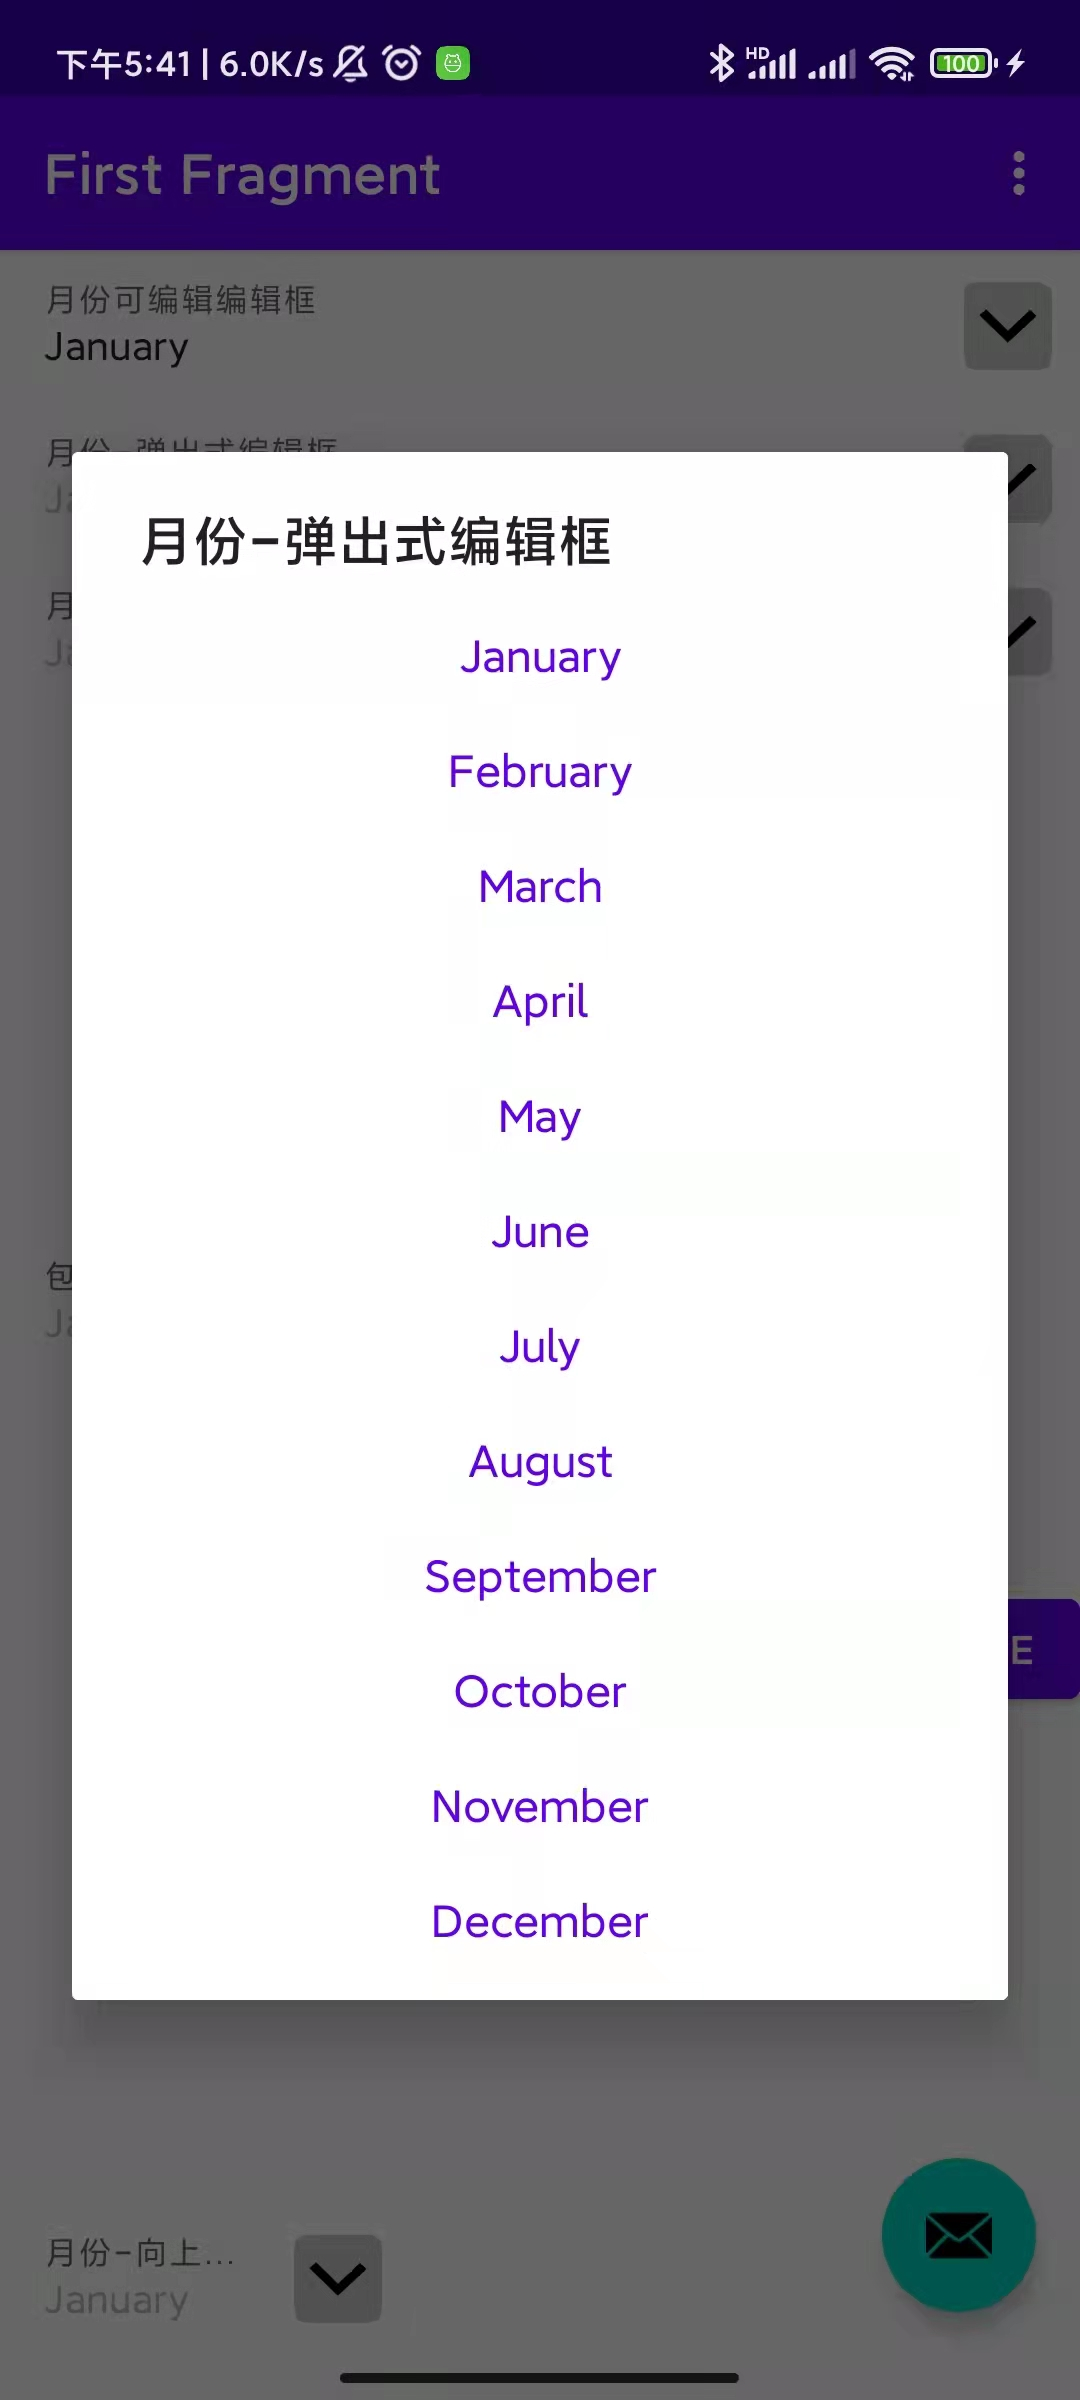
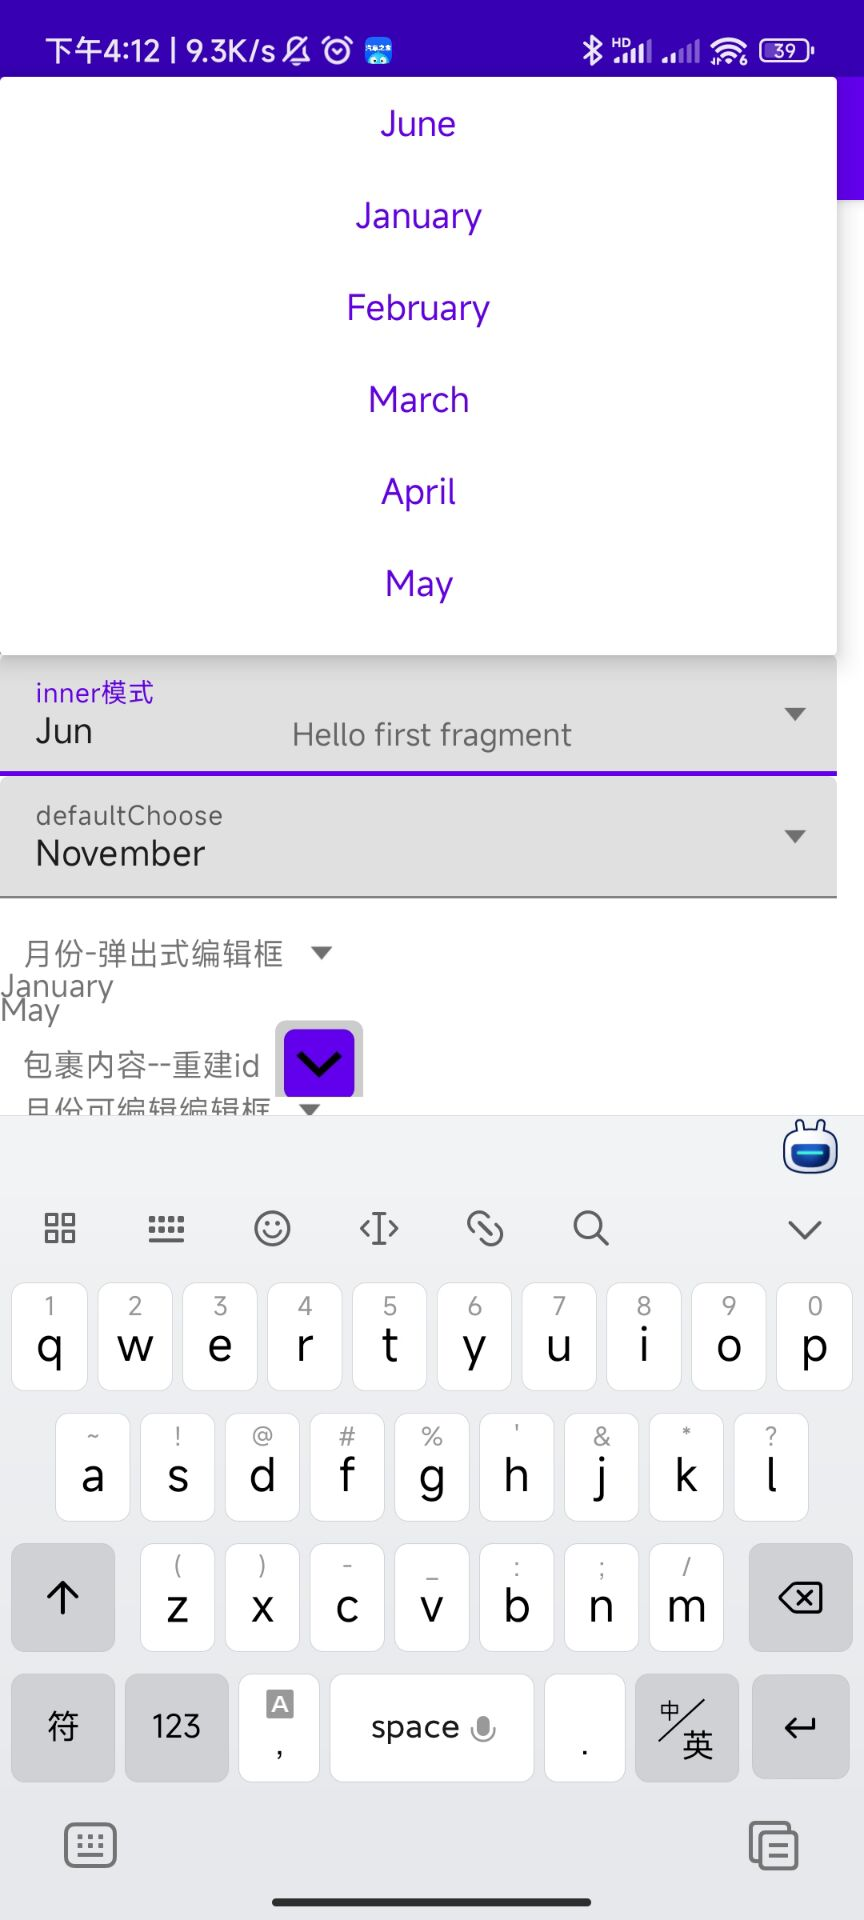
过滤功能完善

diff --git a/app/src/main/java/com/example/editablespinner/FirstFragment.kt b/app/src/main/java/com/example/editablespinner/FirstFragment.kt
@@ -1,23 +1,26 @@
 package com.example.editablespinner
 
 import android.os.Bundle
-import androidx.fragment.app.Fragment
+import android.util.Log
+import android.view.KeyEvent
 import android.view.LayoutInflater
 import android.view.View
 import android.view.ViewGroup
 import android.widget.AdapterView
+import android.widget.TextView
 import android.widget.Toast
+import androidx.fragment.app.Fragment
 import androidx.navigation.fragment.findNavController
 import com.example.editablespinner.databinding.FragmentFirstBinding
+import lozn.spinner.EditSpinner
 import lozn.spinner.impl.AutoCompleteSpinnerAdapter
-import lozn.spinner.impl.DefaultSpinnerRecycleAdapter
-import java.util.ArrayList
 
 /**
  * A simple [Fragment] subclass as the default destination in the navigation.
  */
 class FirstFragment : Fragment() {
 
+    private val TAG: String?="EditSpinner"
     private var _binding: FragmentFirstBinding? = null
 
     // This property is only valid between onCreateView and
@@ -78,6 +81,36 @@ class FirstFragment : Fragment() {
             }
             override fun onNothingSelected(parent: AdapterView<*>?) {}
         })
+
+
+/*
+        binding.editspinner.setOnValueChangeListener(object :
+            EditSpinner.SimpleOnValueChangeListener() {
+            override fun onLossFocusAndTextChange() {
+
+            }
+        })
+
+ */
+        binding.editspinner.setOnValueChangeListener(object :
+            EditSpinner.OnValueChangeListener {
+            override  fun onLossFocus() {
+
+                Log.w(TAG,"onLossFocus");
+            }
+            override fun onLossFocusAndTextChange() {}
+            override  fun onTextAutoCompleteChoose(position: Int, id: Long) {}
+            override   fun onTextChanged(s: CharSequence?) {}
+            override fun onGainFocus(focusText: String?) {}
+            override   fun onItemSelectPostionChanged(position: Int, selectedItem: String?): Boolean {
+                return false
+            }
+
+            override   fun onEditorAction(v: TextView?, actionId: Int, event: KeyEvent?): Boolean {
+                return false
+            }
+        })
+
     }
 
     override fun onDestroyView() {

diff --git a/EditableSpinner/src/main/java/lozn/spinner/EditSpinner.java b/EditableSpinner/src/main/java/lozn/spinner/EditSpinner.java
@@ -1,3 +1,4 @@
+package lozn.spinner;
 
 import static android.widget.AdapterView.INVALID_POSITION;
 import static android.widget.Spinner.MODE_DIALOG;
@@ -32,6 +33,9 @@ import android.widget.TextView;
 import androidx.annotation.IntDef;
 import androidx.annotation.Nullable;
 import androidx.annotation.RequiresApi;
+import androidx.appcompat.content.res.AppCompatResources;
+
+import com.google.android.material.textfield.TextInputLayout;
 
 import java.lang.annotation.Retention;
 import java.lang.annotation.RetentionPolicy;
@@ -40,6 +44,8 @@ import java.util.List;
 
 import lozn.spinner.EditInnerSpinner;
 import lozn.spinner.R;
+import lozn.spinner.base.ListViewRecycleAdapter;
+import lozn.spinner.impl.DefaultSpinnerRecycleAdapter;
 
 /**
  * Author:Lozn
@@ -131,7 +137,7 @@ public class EditSpinner extends LinearLayout {
         String hint_str = "";
         int gap = 0;
         imageView = new ImageView(context);
-        imageView.setId(pub.devrel.easypermissions.R.id.image);
+        imageView.setId(R.id.image);
         CharSequence[] mEntries = null;
 
         if (attrs != null) {
@@ -220,9 +226,10 @@ public class EditSpinner extends LinearLayout {
             _titleWrap.addView(imageView);
         }
         onItemSelectedListenerInner = new AdapterView.OnItemSelectedListener() {
+            @RequiresApi(api = Build.VERSION_CODES.LOLLIPOP)
             @Override
             public void onItemSelected(AdapterView<?> parent, View view, int position, long id) {
-                Log.w("focus", editText.hasFocus() + ","+","+editText.isFocused()+","+editText.isAccessibilityFocused());
+                Log.w("focus", editText.hasFocus() + ","+","+editText.isFocused());
                 if (position < 0) {//|| appCoSpinner.getMyselection() < 0) { //无法做到默认为空。没办法
                     if (!TextUtils.isEmpty(editText.getText().toString())) {
                         setTextDisableNotify("");
@@ -264,7 +271,7 @@ public class EditSpinner extends LinearLayout {
 //        editText.setCompoundDrawablesRelativeWithIntrinsicBounds(null, null, null, null);
         if (mEntries != null && mEntries.length > 0) {
             if (!isInEditMode()) {
-                MySpinnerAdapter<CharSequence, SimpleSpinnerItemBinding> adapter = new MySpinnerAdapter<>();
+                DefaultSpinnerRecycleAdapter<CharSequence> adapter = new DefaultSpinnerRecycleAdapter<>();
                 ArrayList<CharSequence> data = new ArrayList<>();
                 for (CharSequence mEntry : mEntries) {
                     data.add(mEntry);
@@ -382,10 +389,10 @@ public class EditSpinner extends LinearLayout {
             AutoCompleteTextView autoCompleteTextView = (AutoCompleteTextView) editText;
             autoCompleteTextView.setOnItemClickListener((parent, view, position, id) -> {
                 SpinnerAdapter adapter = appCoSpinner.getAdapter();
-                if (adapter instanceof DefaultListViewAdapter) { //创建一个新的adapter,是为了解决重复触发问题，如果不创建一个新的，autocompletetextview继续用之前的，输入2个之后会自动触发select 而且触发两次，实际上不应该进行触发只需要进行提示。
+                if (adapter instanceof DefaultSpinnerRecycleAdapter) { //创建一个新的adapter,是为了解决重复触发问题，如果不创建一个新的，autocompletetextview继续用之前的，输入2个之后会自动触发select 而且触发两次，实际上不应该进行触发只需要进行提示。
 
-                    DefaultListViewAdapter editTextAdapter = (DefaultListViewAdapter) ((AutoCompleteTextView) editText).getAdapter();
-                    DefaultListViewAdapter<?, ?> defaultListViewAdapter = (DefaultListViewAdapter<?, ?>) adapter;
+                    DefaultSpinnerRecycleAdapter editTextAdapter = (DefaultSpinnerRecycleAdapter) ((AutoCompleteTextView) editText).getAdapter();
+                    DefaultSpinnerRecycleAdapter defaultListViewAdapter = (DefaultSpinnerRecycleAdapter) adapter;
                     defaultListViewAdapter.setData(editTextAdapter.getData());
                     defaultListViewAdapter.notifyDataSetChanged();
                 } else {
@@ -650,7 +657,7 @@ public class EditSpinner extends LinearLayout {
         if (isInEditMode()) {
             return;
         }
-        MySpinnerAdapter<Object, SimpleSpinnerItemBinding> adapter = new MySpinnerAdapter<>();
+        DefaultSpinnerRecycleAdapter adapter = new DefaultSpinnerRecycleAdapter<>();
         adapter.setData(data);
         setAdapter(adapter);
     }
@@ -832,9 +839,9 @@ public class EditSpinner extends LinearLayout {
             AutoCompleteTextView autoCompleteTextView = (AutoCompleteTextView) editText;
             if (adapter instanceof ListAdapter && adapter instanceof Filterable) {
                 if (!isInEditMode()) {
-                    MySpinnerAdapter mySpinnerAdapter = (MySpinnerAdapter) adapter;
+                    DefaultSpinnerRecycleAdapter mySpinnerAdapter = (DefaultSpinnerRecycleAdapter) adapter;
 
-                    autoCompleteTextView.setAdapter(new MySpinnerAdapter<>().setData(mySpinnerAdapter.getData()));  // 设置适配器
+                    autoCompleteTextView.setAdapter(new DefaultSpinnerRecycleAdapter<>().setData(mySpinnerAdapter.getData()));  // 设置适配器
 
                 }
 

diff --git a/EditableSpinner/src/main/java/lozn/spinner/impl/DefaultSpinnerRecycleAdapter.java b/EditableSpinner/src/main/java/lozn/spinner/impl/DefaultSpinnerRecycleAdapter.java
@@ -6,12 +6,19 @@ import android.view.ViewGroup;
 import android.widget.Filter;
 import android.widget.TextView;
 
+import java.util.ArrayList;
+import java.util.LinkedHashSet;
+import java.util.List;
+
 import lozn.spinner.BaseViewHolderI;
 import lozn.spinner.base.ListViewRecycleAdapter;
 import lozn.spinner.R;
 
 
 public class DefaultSpinnerRecycleAdapter<T>  extends ListViewRecycleAdapter<T, DefaultSpinnerRecycleAdapter.GenericDataBindViewHolder> {
+    private List<T> datafilter;
+    private MyFilter myFilter;
+
     @Override
     public GenericDataBindViewHolder onCreateViewHolder(ViewGroup viewGroup, int viewType) {
         LayoutInflater from = LayoutInflater.from(viewGroup.getContext());
@@ -28,9 +35,82 @@ public class DefaultSpinnerRecycleAdapter<T>  extends ListViewRecycleAdapter<T, 
         return super.getItem(position);
     }
 
+
+    public List<T> getSuperData() {
+        return super.getData();
+    }
+
+
+    public class MyFilter extends Filter {
+   /*     public void setSuperDataLiSt(List superDataLiSt) {
+            this.superDataLiSt = superDataLiSt;
+        }
+
+        private List<t> superDataLiSt;
+
+        public MyFilter(List<t> superData) {
+            this.superDataLiSt = superData;
+        }*/
+
+        public MyFilter() {
+        }
+
+        @Override
+        protected FilterResults performFiltering(CharSequence constraint) {
+            FilterResults results = new FilterResults();
+            List<T> newData = new ArrayList<>();
+            List<T> containData = new ArrayList<>();
+            List<T> superData = getSuperData();
+            for (T currentItem : superData) {
+                if (currentItem.toString().startsWith(constraint.toString())) {
+                    newData.add(currentItem);
+                } else {
+                    if (currentItem.toString().contains(constraint)) {
+                        containData.add(currentItem);
+                    }
+                }
+             /*   if (currentItem.toString().contains(constraint)) {
+                    newData.add(currentItem);
+                }*/
+            }
+
+            LinkedHashSet hashSet = new LinkedHashSet();
+            if(!containData.isEmpty()){
+                newData.addAll(containData);
+            }
+            hashSet.addAll(newData);
+            hashSet.addAll(superData);
+            newData.clear();
+            newData.addAll(hashSet);
+            results.values = newData;
+
+            results.count = newData.size();
+
+            return results;
+        }
+
+        @Override
+        protected void publishResults(CharSequence constraint, FilterResults results) {
+            datafilter = (List<T>) results.values;
+            notifyDataSetChanged();
+        }
+    }
+
+
     @Override
     public Filter getFilter() {
-        return null;
+        if (myFilter == null) {
+            myFilter = new MyFilter();
+        }
+//        myFilter.setSuperDataLiSt(getSuperData());
+        return myFilter;
+    }
+    @Override
+    public List<T> getData() {
+        if (datafilter != null && !datafilter.isEmpty()) {
+            return datafilter;
+        }
+        return super.getData();
     }
 
     public static class GenericDataBindViewHolder implements BaseViewHolderI {

diff --git a/EditableSpinner/src/main/java/lozn/spinner/base/ListViewRecycleAdapter.java b/EditableSpinner/src/main/java/lozn/spinner/base/ListViewRecycleAdapter.java
@@ -61,6 +61,8 @@ public abstract class ListViewRecycleAdapter<T, VH extends BaseViewHolderI> exte
 
     }
 
+
+
     public void setOnItemLongClickListener(OnItemLongClickListener onItemLongClickListener) {
         this.onItemLongClickListener = onItemLongClickListener;
     }

diff --git a/ReadMe.md b/ReadMe.md
@@ -1,4 +1,4 @@
-#添加依赖
+#AddDependent
 
 ```groovy
 	allprojects {
@@ -51,7 +51,7 @@ Step 2. Add the dependency
 ```
 
 #功能
-```spinner_mode``` 支持dialog dropdown 默认dropdown 当这个下拉列表在底部的时候会网上展开
+```spinner_mode``` 支持dialog dropdown 默认dropdown 当这个下拉列表在底部的时候会向上上展开
 ```spinner_item``` 设置默认item条目 ，这样对于纯字符的可以不需要用代码设置
 ```spinner_editable``` 控制是否可编辑
 ```spinner_rebuild_Id``` 如果viewpager fragment大量使用，则会导致hint重复问题，这是fragment的回收机制问题,给每一个分配不同id就可以解决这个问题
@@ -63,9 +63,9 @@ arrays.xml
 <item>3333</item>
 <item>5555</item>
 </string-array>
-#自动提示
+#自动提示与搜索
 
-必须开启可编辑功能方可开启自动提示
+必须开启可编辑功能方可开启自动提示,自动提示可以通过监听回车行为或者失去焦点时进行检测是否匹配。
 ``` 
         val mentriesx = arrayOf("a2", "a", "f", "bbc", "12345","ffcc")
         mentriesx.set(0,mentriesx::class.java.simpleName+"_test");
@@ -75,6 +75,7 @@ arrays.xml
         adapter.setData(data)
         binding.editspinnerAutotip.setAdapter(adapter)
 ```
+
 自动提示的实现原理是使用了MaterialAutoCompleteTextView spinner弹出式内部维护了Spinner,   demo默认和spinner点击的view公用同一个adapter,不管输入什么都会提示，只是匹配的会弄到第一项， spinner箭头点开后数据也是一样的。
 ![img.png](img.png)
 # 自定义布局
@@ -195,6 +196,43 @@ EditInnerSpinner 集成类解决android 10的bug无条目时卡死问题。
       
       
       
+
+
+```
+
+# otherCode
+
+```
+
+
+//简单的设置监听回调
+        binding.editspinner.setOnValueChangeListener(object :
+            EditSpinner.SimpleOnValueChangeListener() {
+            override fun onLossFocusAndTextChange() {
+                
+            }
+        })
+        
+//监听更多编辑框行为回调
+        binding.editspinner.setOnValueChangeListener(object :
+            EditSpinner.OnValueChangeListener {
+            override  fun onLossFocus() {
+                
+                Log.w(TAG,"onLossFocus");
+            }//当失去焦点而且编辑框内容被用户手动修改时触发
+            override fun onLossFocusAndTextChange() {}
+            override  fun onTextAutoCompleteChoose(position: Int, id: Long) {}
+            override   fun onTextChanged(s: CharSequence?) {}
+            override fun onGainFocus(focusText: String?) {}
+            override   fun onItemSelectPostionChanged(position: Int, selectedItem: String?): Boolean {
+                return false
+            }
+            //可以根据actionId,event判断是否是回车，回车执行逻辑。
+            override   fun onEditorAction(v: TextView?, actionId: Int, event: KeyEvent?): Boolean {
+                return false
+            }
+        })
+
 
 
 ```
